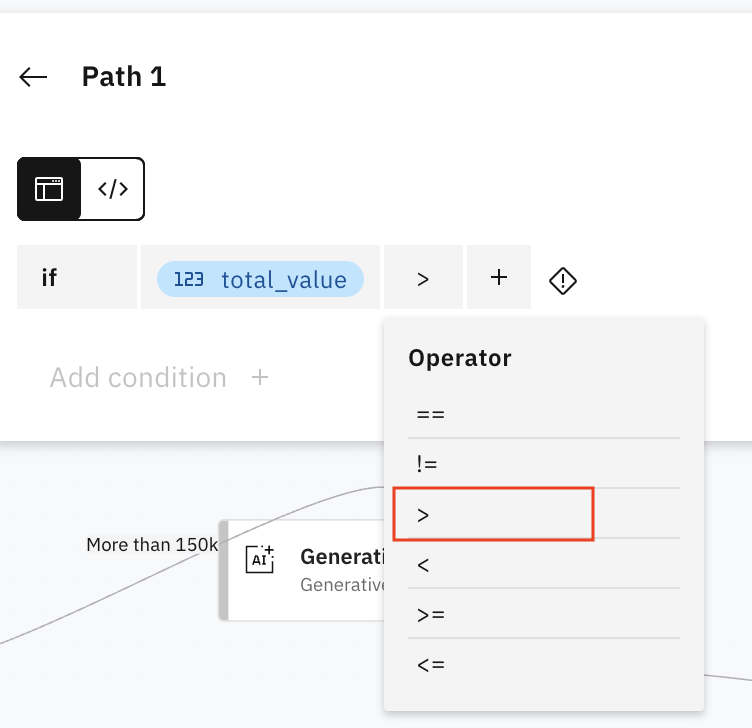
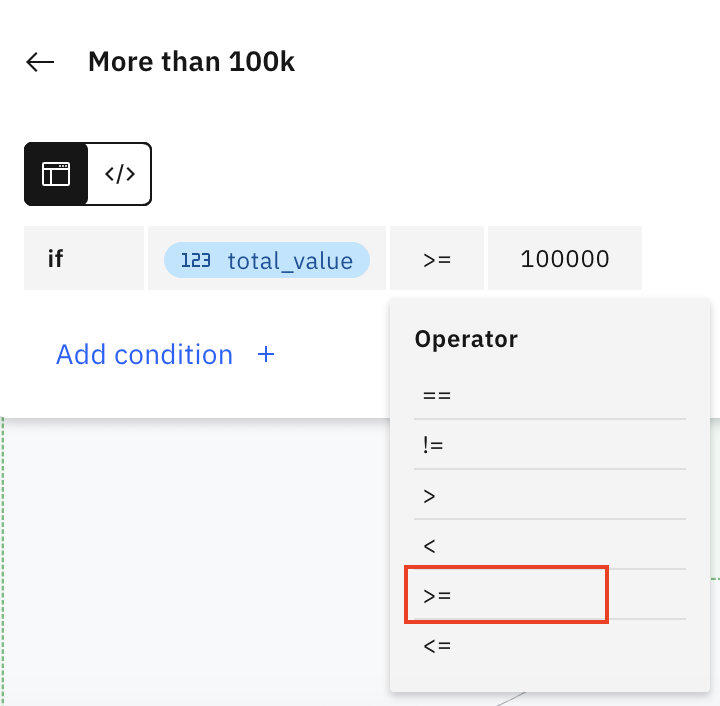
lab 4 updates

diff --git a/website/Lab-4.md b/website/Lab-4.md
@@ -23,48 +23,60 @@ Step-by-step instructions
 
     ![image](./imgs/imgs_4/step_3.png)
 
-1.  Scroll up & update the agent **Description**:
-    ```
-    You are an agent who handles employee HR queries. You provide short and crisp responses, keeping the output to 200 words or less. You can help users check their profile data, update their addresses within the SAP system.You can also reroute to an employee_healthcare_agent for answering questions related to employee health insurance policies, providers/doctors, medical claims.
-    ```
 
 1. Scroll down and update the agent **Behavior**
     ```
-    Use your knowledge base to answer general questions about employee benefits. For any questions related to benefits/incentives that are unrelated to healthcare, refer to your KNOWLEDGE.
-    
-    Reroute to the employee_healthcare_agent for any queries related to healthcare, medical appointments, healthcare providers (doctors), and health insurance, and use the outputs from this agent to respond.
-    
-    Reroute to the Employee Address agent when there are any request to update address of an employee. Ensure that you have all the information before you trigger the agent. If you need more information, get it from user.
+    If user ask about researching for supplier, you must route it to Supplier Research Agent.
 
-    If the user wants to request for leave, route it to Leave Management agent. The location used must be SGP. Ensure that you have all the information before you trigger the agent. If you need more information, get it from user.
+    If user wants to perform any product reordering, you will need to first run the Calculate Reorder Agent and you must use fetch_price_books tool to get the unit price for different suppliers for Xtralife. If you do not know which supplier to choose, you must clarify with the user. 
 
-    After rerouting to any agent, be sure to return the agent's output in any subsequent query to the supervisor agent.
+    Thereafter, trigger the Check flow tool to check the reorder quantity.
+
+    If the flow returns a message with order approved, proceed to create an order in Salesforce first using the create_order tool followed by create_product_in_order tool without any confirmation.
     ```
-1.  Next let's refresh the page and then test our end-to-end AskProcurement demo.
+1.  We will use the **Guideline** to control the behavior of our agent to be more accurate.
+
+    Fill in the following fields:
+
+    Name: Supplier Research
+
+    Condition: The customer request to research for Xtralife suppliers
+
+    Action: Use the Research Supplier Agent to run the research and output the research details.
+
+    ![image](./imgs/imgs_4/step_4.png)
+
+1. Next let's refresh the page and then test our end-to-end AskProcurement demo.
 
 1. Your results should mostly match the results in the [**demo\_video.mov**](https://ibm.box.com/s/97ykz714zpfvdx14j0o1hvbs5a6hrhd9).
     ```
-    I want to apply for childcare leave for a day.
-    ```
-    ```
-    jamie.tan@bestrun.sg
+    Research for Xtralife Suppliers
     ```
 
-* Feature demonstrated: call a prebuilt collaborator agent
+* Feature demonstrated: call a collaborator agent
 
 
     ```
-    I need to bring my son for a follow up appointment with his specialist for his ear infection. Can you remind me of what would be my copayment amount if I’m under HDHP in-network?
+    How much should I reorder for Xtralife next month?
     ```
 
-* Feature demonstrated: reroute to collaborator agent & call tool
+* Feature demonstrated: call a collaborator agent
+
+    After you get the reorder quantity:
 
     ```
-    I wanted to bring him to a different doctor this time - for a second opinion - can you recommend one near Lowell?
+    Can I check if this quantity fits our company policy?
     ```
 
-* Feature demonstrated: reroute to collaborator agent & call tool
+* Feature demonstrated: Call a flow tool
+
+    If you get the following response:
+    
+    **Your order is approved. You can proceed to place your order.**
 
     ```
-    I also need to update my address
+    Proceed to place order
     ```
+* Feature demonstrated: Call a tool
+
+    If the total value is more than the thereshold, you will receive an email template.

diff --git a/website/Lab-3.md b/website/Lab-3.md
@@ -158,7 +158,7 @@ Step-by-step instructions
 
     <img src="./imgs/imgs_3/lab3_createflow18.png" alt="image" height="200" />
 
-1. Click anywhere to return to the canvas. For the path with more than 150k, we want the flow to assist in generating an email template to seek approval from senior management.
+1. Click anywhere to return to the canvas. For the path with more than 100k, we want the flow to assist in generating an email template to seek approval from senior management.
 
     From the menu, drag and snap **Generative prompt** tile on to the flow.
 
